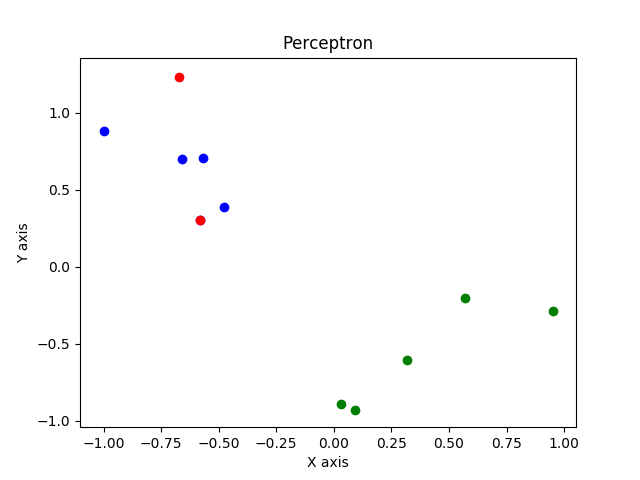
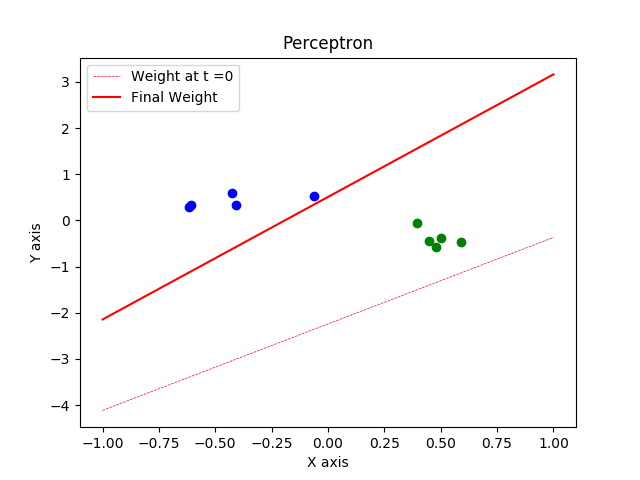
Add files via upload

diff --git a/mini exercise 3/perceptron.py b/mini exercise 3/perceptron.py
@@ -38,14 +38,15 @@ def all_points_separated(a, l, w):
     for index in range(a.shape[0]):
         print ("Point : ", index)
         print (np.sum(a[index]*w)*l[index])
-        print (l[index])
+        # print (l[index])
         if np.sum(a[index]*w)*l[index] <= 0:
             print("a")
             return False
     return True
 
 
-def plot_graphs(data, succesive_weights):
+
+def plot_graphs(data, succesive_weights, a):
     """
     :param data: Points data
     :param succesive_weights: Successive weight vectors
@@ -55,29 +56,41 @@ def plot_graphs(data, succesive_weights):
     y1 = []
     x2 = []
     y2 = []
-    for point in data:
-        if point[2] == 1:
-            x1.append(point[0])
-            y1.append(point[1])
+    # for point in data:
+    #     if point[2] == 1:
+    #         x1.append(point[0])
+    #         y1.append(point[1])
+    #     else:
+    #         x2.append(point[0])
+    #         y2.append(point[1])
+    for index in range(a.shape[0]):
+        if data[index][2] == 1:
+            x1.append(a[index][0])
+            y1.append(a[index][1])
         else:
-            x2.append(point[0])
-            y2.append(point[1])
-    w_x = []
-    w_y = []
-    for weight in succesive_weights:
-        w_x.append(weight[0])
-        w_y.append(weight[1])
+            x2.append(a[index][0])
+            y2.append(a[index][1])
+    l = np.linspace(-1, 1)
+    lines = []
+    cmap = plt.cm.get_cmap('hsv', len(succesive_weights)-1)
+    for idx, weight in enumerate(succesive_weights):
+        a = -weight[0]/weight[1]
+        b = -weight[2]/weight[1]
+        if idx == len(succesive_weights)-1:
+            lines.append((plt.plot(l, a * l + b, 'r', label ='Final Weight'))[0])
+        else:
+            lines.append((plt.plot(l, a * l + b, linestyle='--', linewidth=0.5, color=cmap(idx), label='W @ t ='+ str(idx)))[0])
     plt.scatter(x1, y1, color='b')
     plt.scatter(x2, y2, color = 'g')
-    plt.scatter(w_x, w_y, color='r')
     plt.xlabel('X axis')
     plt.ylabel('Y axis')
     plt.title('Perceptron')
     imagename = "figure_" + str(len(data)) + ".png"
+    plt.legend(handles=lines)
     plt.savefig(imagename)
     plt.close()
 
-def cal_margin(a, w):
+def cal_margin(a, w, l):
     """
     :param a: Points
     :param w: Final weight
@@ -86,7 +99,7 @@ def cal_margin(a, w):
     deno = np.sqrt(np.sum(w**2))
     min = sys.float_info.max
     for index in range(a.shape[0]):
-        margin = np.sum(a[index] * w)/ deno
+        margin = (np.sum(a[index] * w)*l[index])/ deno
         if margin < min:
             min = margin
     print(margin)
@@ -106,6 +119,8 @@ def perceptron(data):
         a[idx][2] = 1
         l[idx] = point[2]
     # Initialize weight
+    for idx in range(a.shape[0]):
+        a[idx] = a[idx]/np.sqrt(np.sum(a[idx]**2))
     w = np.reshape(a[0]*l[0],(3,))
     succesive_weights.append(np.copy(w))
     more_iter = True
@@ -119,10 +134,11 @@ def perceptron(data):
         if(all_points_separated(a, l, w) == True):
             more_iter = False
     print(succesive_weights)
-    plot_graphs(data, succesive_weights)
-    cal_margin(a, w)
+    plot_graphs(data, succesive_weights, a)
+    cal_margin(a, w, l)
 
 counts = [2, 5, 10]
+# counts = [10]
 for n in counts:
     data = generateData(n)
     print(data)
